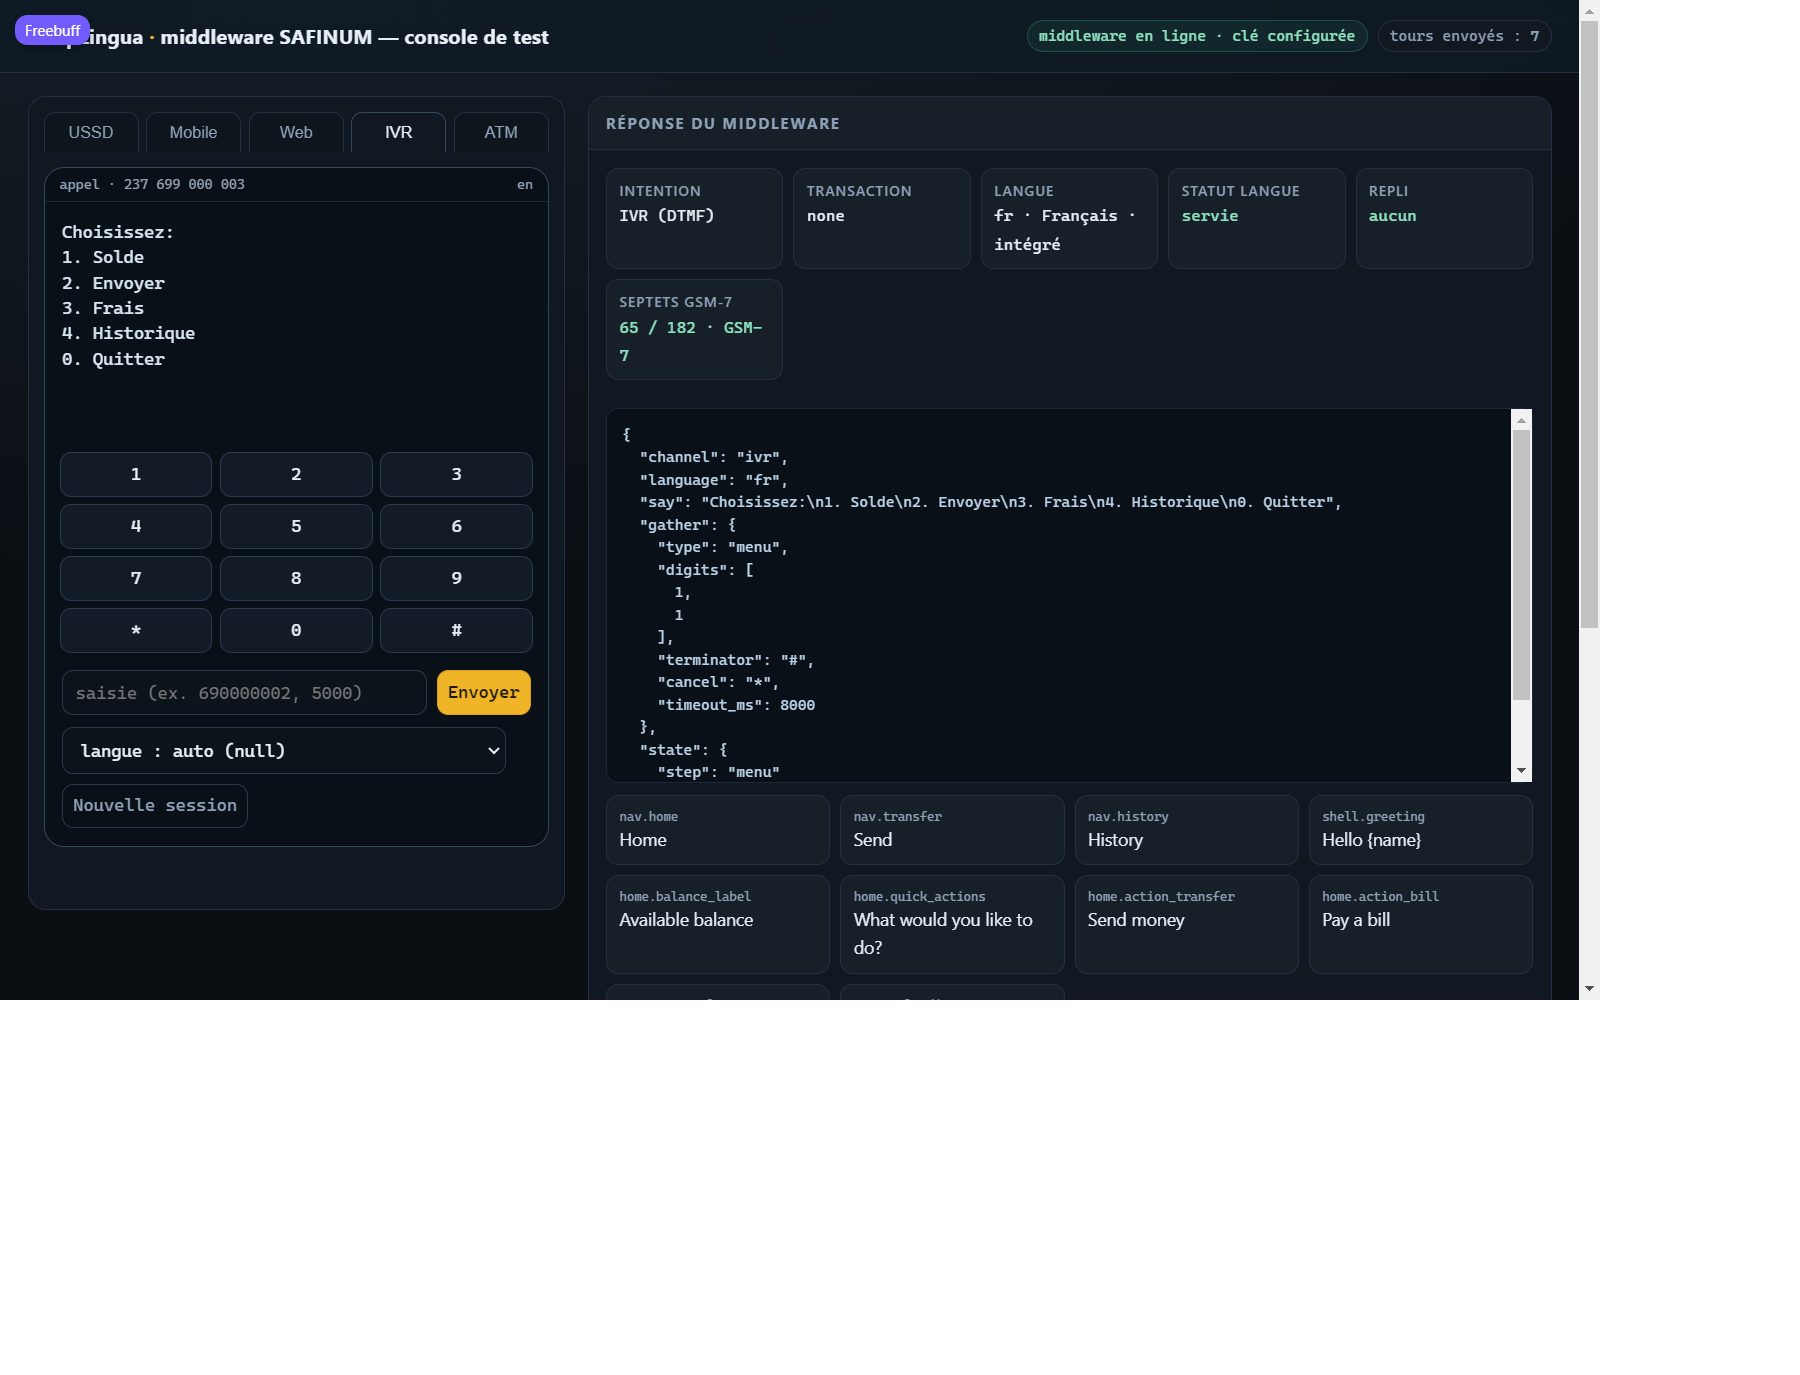
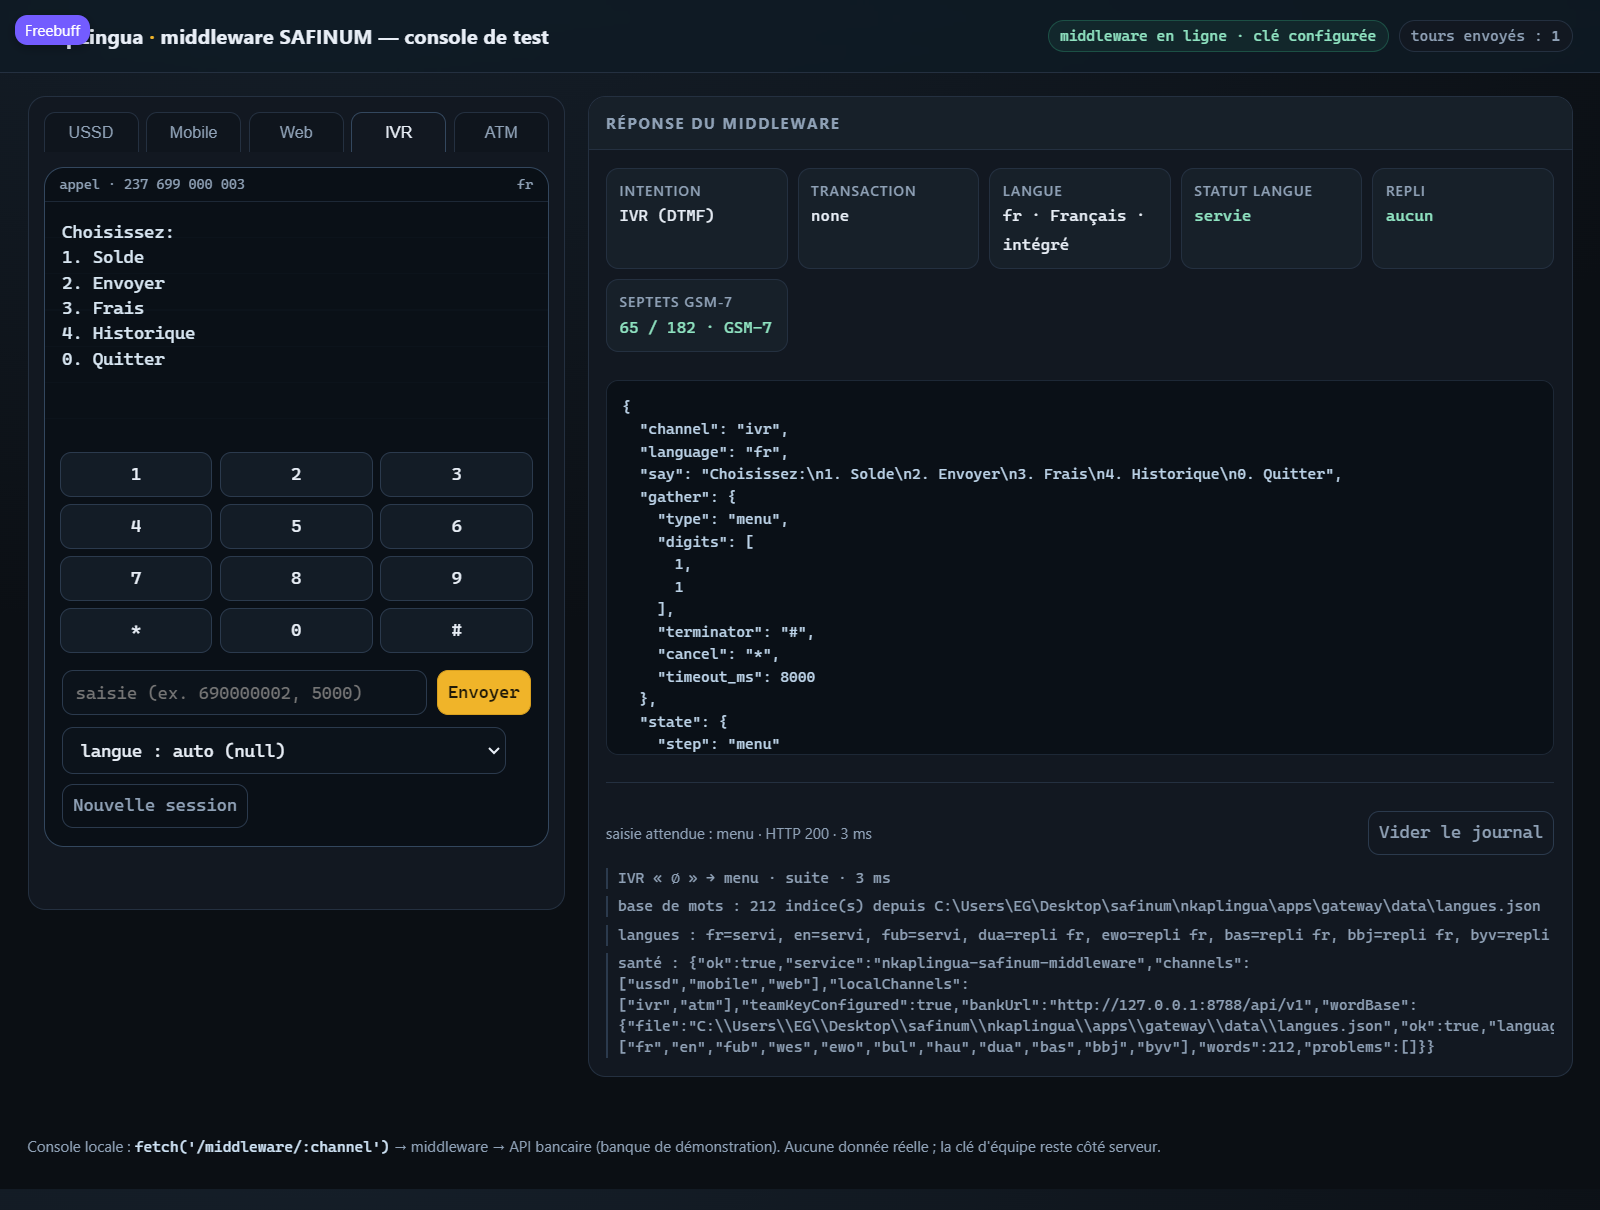
Corriger les cartes residuelles de la console et nettoyer la base
Le bandeau de traduction restait affiche sur les onglets IVR et ATM parce que
`.cards { display: grid }` ecrasait l'attribut `hidden` ; une regle globale le
force et les captures 01, 06, 07, 08 sont reprises a la meme echelle. L'exemple
inerte de la base est retire : depuis l'export, `dua` est reelle et l'exemple
ne servait plus qu'a laisser croire a des mots valides.

🤖 Generated with Codebuff

diff --git a/apps/gateway/public/langues.html b/apps/gateway/public/langues.html
@@ -12,6 +12,7 @@
     --mono: ui-monospace, "Cascadia Mono", Menlo, Consolas, monospace;
   }
   * { box-sizing: border-box; }
+  [hidden] { display: none !important; }
   body { margin: 0; background: var(--bg); color: var(--text); font: 15px/1.5 system-ui, -apple-system, "Segoe UI", sans-serif; }
   header { display: flex; flex-wrap: wrap; gap: 10px; align-items: baseline; justify-content: space-between; padding: 16px 24px; background: var(--panel); border-bottom: 1px solid var(--line); position: sticky; top: 0; z-index: 2; }
   h1 { font-size: 17px; margin: 0; }

diff --git a/apps/gateway/public/console.html b/apps/gateway/public/console.html
@@ -18,6 +18,8 @@
     --mono: ui-monospace, "Cascadia Mono", "SF Mono", Menlo, Consolas, monospace;
   }
   * { box-sizing: border-box; }
+  /* Un display explicite (.cards, .grid…) écrase l'attribut `hidden` : on le force ici. */
+  [hidden] { display: none !important; }
   body {
     margin: 0; background: radial-gradient(1200px 600px at 20% -10%, #16202b, var(--bg));
     color: var(--text); font: 15px/1.5 system-ui, -apple-system, "Segoe UI", sans-serif;

diff --git a/docs/PRESENTATION-CAPTURES.md b/docs/PRESENTATION-CAPTURES.md
@@ -119,7 +119,8 @@ visible — et il est testé (plafond, coupures, code non vérifié par la banqu
 
 ![Administration des langues](presentation/08-langues-admin.png)
 
-**On voit** : la page `/langues-admin`. À gauche, **les 11 langues de la base** avec leur état :
+**On voit** : la page `/langues-admin`. À gauche, **la liste des langues de la base** (elle défile ; le
+bandeau en haut confirme les 11 langues chargées), avec leur état :
 `fr`, `en`, `fub` (`servi`), `dua`, `ewo`, `bas`, `bbj`, `byv` (`repli fr`), `bul`, `hau`, `wes`
 (`hors sandbox`). Puis le formulaire **Ajouter une langue du contrat** (nom, alias, provenance) et
 la **fiche de la langue** (nom, alias, provenance, `Enregistrer la fiche`, `Exporter le lexique

diff --git a/docs/GUIDE-ACTIONS-JOUR-J.md b/docs/GUIDE-ACTIONS-JOUR-J.md
@@ -332,6 +332,10 @@ Deux endroits, deux rôles :
 | `apps/gateway/data/langues.json` | **base vivante** : langues, alias, mots, poids | linguistes et dev, sans rebuild |
 | `apps/gateway/translations/<code>.json` | réponses complètes (écrans + USSD) relues | deux locuteurs |
 
+Sans terminal, la même base s'édite dans le navigateur : `http://127.0.0.1:8080/langues-admin`
+(ajouter une langue, corriger un alias, changer un poids, exporter, essayer une phrase). La page
+n'accepte que la boucle locale : à travers le tunnel, elle répond `403`.
+
 ```bash
 # voir l'état (mots reconnus, pack, écrans, repli)
 pnpm --filter @nkap/gateway lang liste
